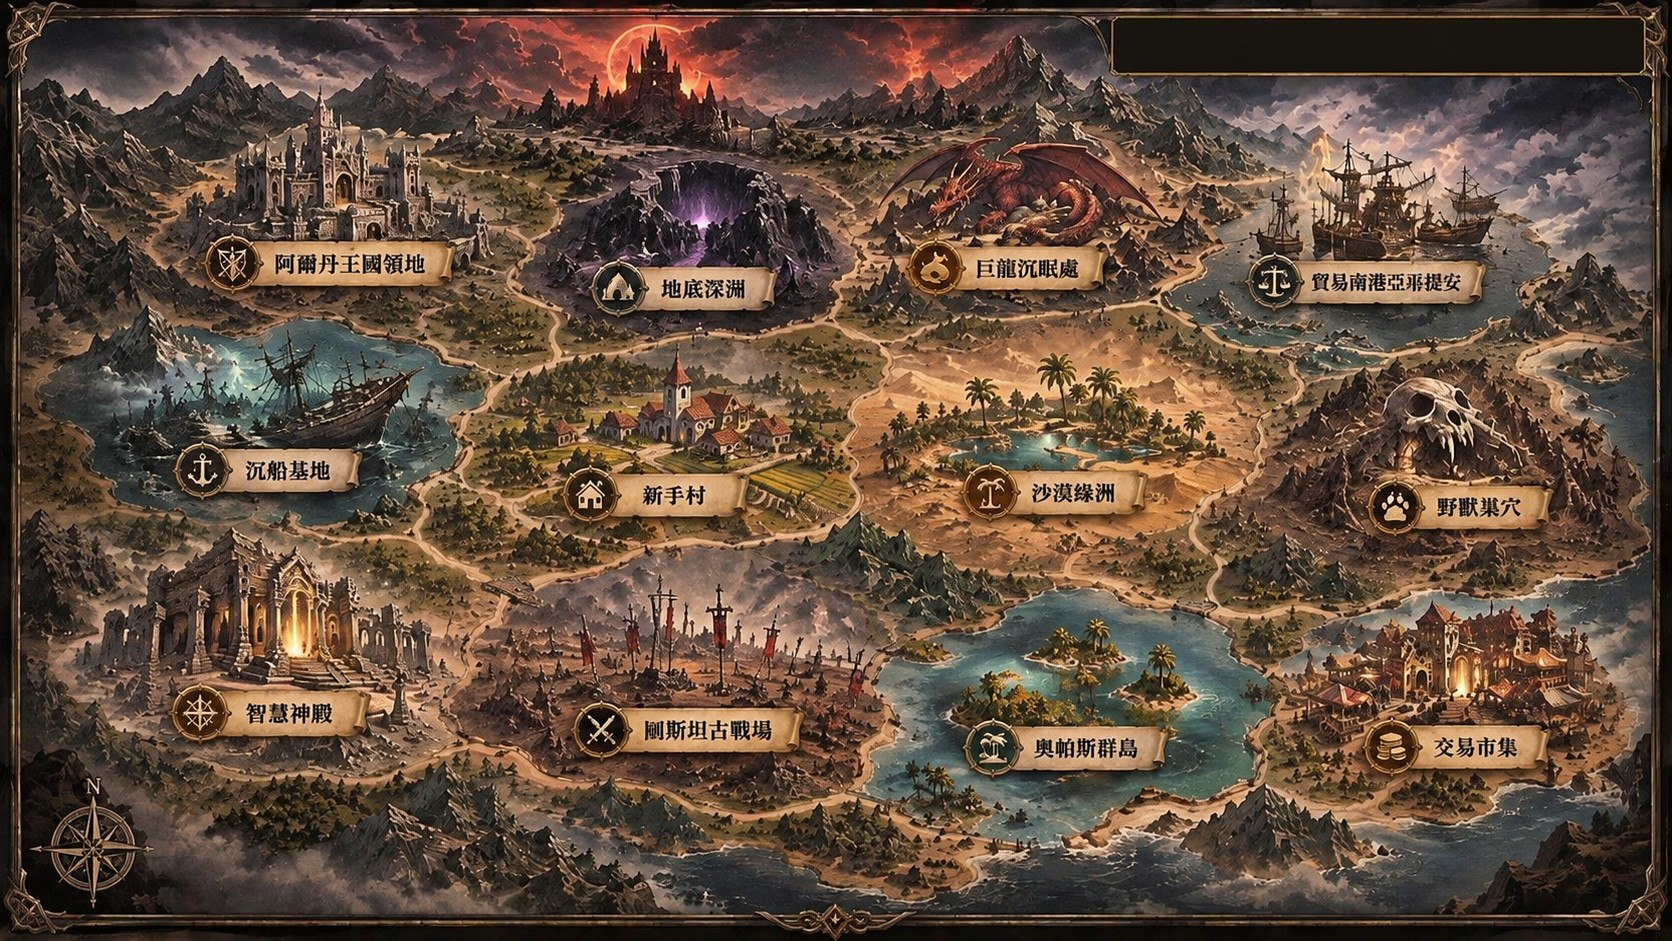
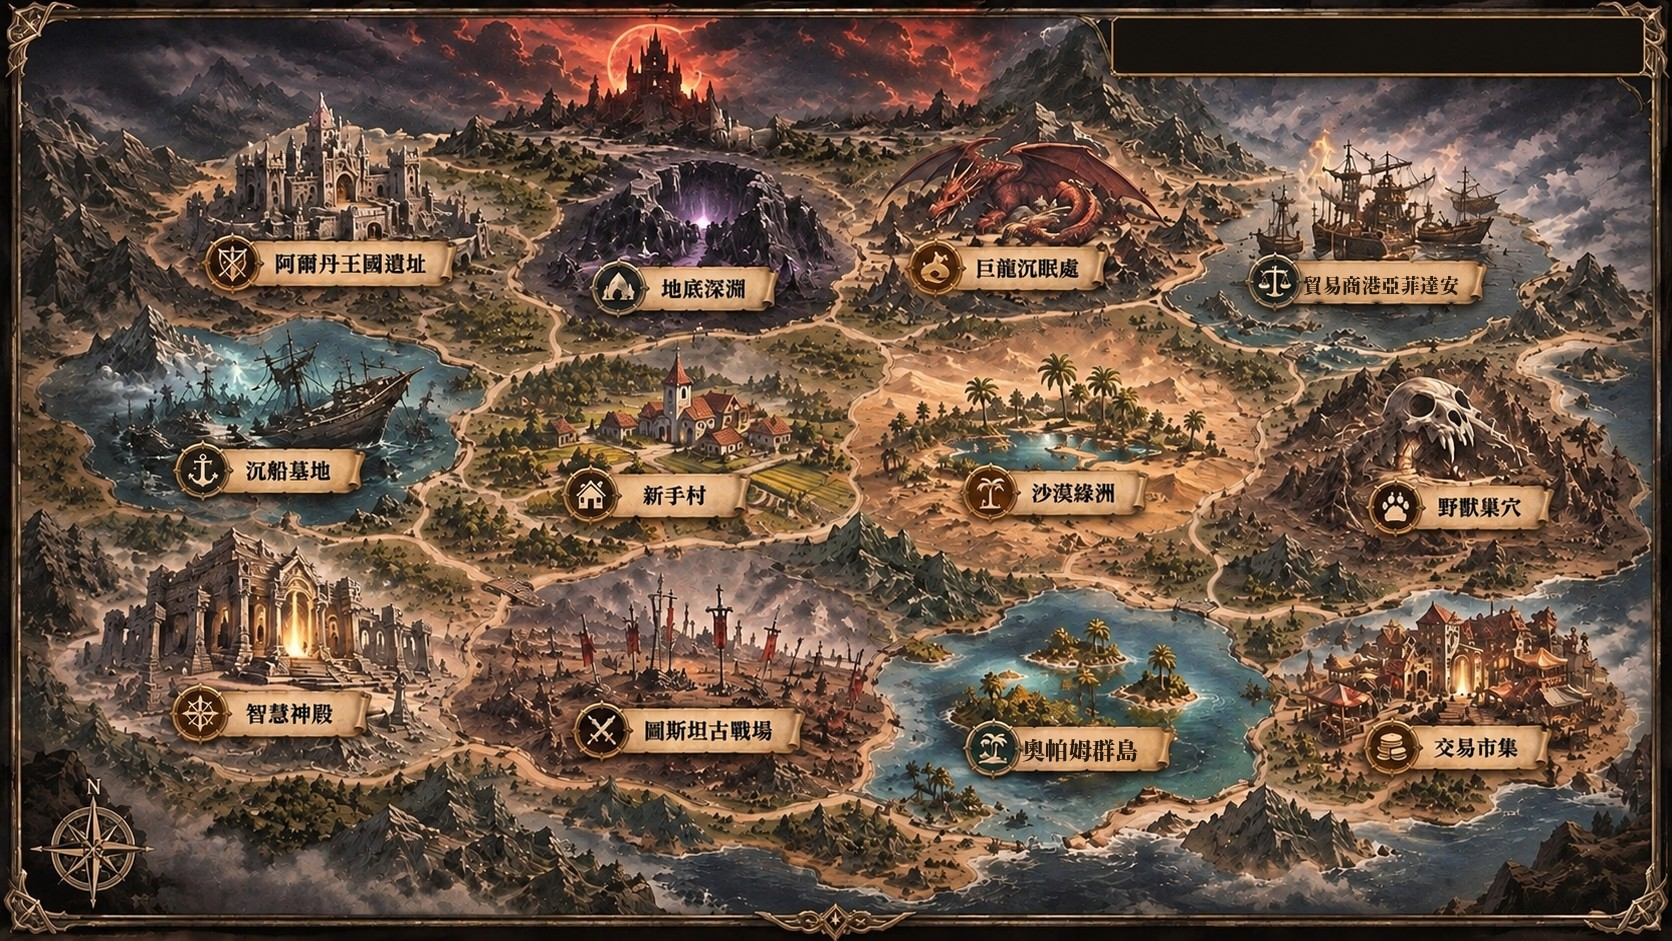
套用新版地圖並修正地名；交易市集改金色光暈，地標事件列字體隨地圖縮放
- 新版地圖：修正「貿易商港亞菲達安」「奧帕姆群島」名牌文字
- 交易市集移除「交易」小標，改為名牌金色呼吸光暈外框
- 地標事件列、狀態小標、牌庫數量字體依地圖大小縮放，避免跑版

Claude-Session: https://claude.ai/code/session_0143Bj37pmH8Dx3ZA3XRvR8J

Changed region(s): [[0.0, 0.0, 1.0, 1.0], [0.7464, 0.0, 0.7775, 0.0308]]

diff --git a/index.html b/index.html
@@ -1456,6 +1456,26 @@ button.card:hover{transform:none}
 .wlm.st-done::after{display:none}
 .wflag{bottom:calc(40% + 3px)!important}
 .wh-ev{right:1.6%;top:1.8%;width:31.9%;height:6%}
+
+/* v25：交易市集改用金色光暈外框（取代「交易」小標）；地標事件列字體隨地圖大小縮放 */
+.wflag.trade{display:none!important}
+.wlm.st-trade .wrow::after{inset:-2px;border-radius:.6cqw;box-shadow:0 0 0 .14cqw #e2b550,0 0 0 .3cqw rgba(40,26,10,.85),0 0 1.4cqw .2cqw rgba(226,181,80,.55);animation:wTrade 2.6s ease-in-out infinite}
+@keyframes wTrade{50%{box-shadow:0 0 0 .14cqw #f3d27a,0 0 0 .3cqw rgba(40,26,10,.85),0 0 2.2cqw .5cqw rgba(243,210,122,.75)}}
+.wlm.st-trade:hover .wrow::after,.wlm.st-trade.picked .wrow::after{animation:none;box-shadow:0 0 0 .2cqw var(--gold-hi),0 0 2cqw .4cqw rgba(243,210,122,.85)}
+@media(prefers-reduced-motion:reduce){.wlm.st-trade .wrow::after{animation:none}}
+@media(min-width:1240px){
+.worldmap>.whudbar .wh-ev,.worldmap>.wh-ev{font-size:clamp(9px,1.45cqw,19px);gap:.6cqw;padding:.2em .9cqw;height:auto!important;min-height:6%;line-height:1.25;overflow:hidden;white-space:nowrap}
+.wh-ev .go{line-height:1}
+.wh-ev .ex{width:1.35em!important;height:1.35em!important;min-width:0!important;min-height:0!important;flex:none}
+.wh-ev>span:nth-child(2){flex:none}
+.wh-ev .go{font-size:1.3em;flex:none}
+@container wmap (max-width:640px){.wh-ev>span:nth-child(2){display:none}}
+}
+@media(min-width:861px){
+.worldmap>.wpiles>*{font-size:clamp(8px,.95cqw,15px)}
+.worldmap>.wpiles svg{width:1.2em;height:1.2em;min-width:0;min-height:0}
+.wflag{font-size:clamp(8px,.95cqw,14px)}
+}
 </style>
 <link rel="preconnect" href="https://fonts.googleapis.com"><link rel="preconnect" href="https://fonts.gstatic.com" crossorigin><link href="https://fonts.googleapis.com/css2?family=Noto+Sans+TC:wght@400;500;700&family=Noto+Serif+TC:wght@600;700;900&display=swap" rel="stylesheet">
 </head>

diff --git a/src/template.html b/src/template.html
@@ -1456,6 +1456,26 @@ button.card:hover{transform:none}
 .wlm.st-done::after{display:none}
 .wflag{bottom:calc(40% + 3px)!important}
 .wh-ev{right:1.6%;top:1.8%;width:31.9%;height:6%}
+
+/* v25：交易市集改用金色光暈外框（取代「交易」小標）；地標事件列字體隨地圖大小縮放 */
+.wflag.trade{display:none!important}
+.wlm.st-trade .wrow::after{inset:-2px;border-radius:.6cqw;box-shadow:0 0 0 .14cqw #e2b550,0 0 0 .3cqw rgba(40,26,10,.85),0 0 1.4cqw .2cqw rgba(226,181,80,.55);animation:wTrade 2.6s ease-in-out infinite}
+@keyframes wTrade{50%{box-shadow:0 0 0 .14cqw #f3d27a,0 0 0 .3cqw rgba(40,26,10,.85),0 0 2.2cqw .5cqw rgba(243,210,122,.75)}}
+.wlm.st-trade:hover .wrow::after,.wlm.st-trade.picked .wrow::after{animation:none;box-shadow:0 0 0 .2cqw var(--gold-hi),0 0 2cqw .4cqw rgba(243,210,122,.85)}
+@media(prefers-reduced-motion:reduce){.wlm.st-trade .wrow::after{animation:none}}
+@media(min-width:1240px){
+.worldmap>.whudbar .wh-ev,.worldmap>.wh-ev{font-size:clamp(9px,1.45cqw,19px);gap:.6cqw;padding:.2em .9cqw;height:auto!important;min-height:6%;line-height:1.25;overflow:hidden;white-space:nowrap}
+.wh-ev .go{line-height:1}
+.wh-ev .ex{width:1.35em!important;height:1.35em!important;min-width:0!important;min-height:0!important;flex:none}
+.wh-ev>span:nth-child(2){flex:none}
+.wh-ev .go{font-size:1.3em;flex:none}
+@container wmap (max-width:640px){.wh-ev>span:nth-child(2){display:none}}
+}
+@media(min-width:861px){
+.worldmap>.wpiles>*{font-size:clamp(8px,.95cqw,15px)}
+.worldmap>.wpiles svg{width:1.2em;height:1.2em;min-width:0;min-height:0}
+.wflag{font-size:clamp(8px,.95cqw,14px)}
+}
 </style>
 <link rel="preconnect" href="https://fonts.googleapis.com"><link rel="preconnect" href="https://fonts.gstatic.com" crossorigin><link href="https://fonts.googleapis.com/css2?family=Noto+Sans+TC:wght@400;500;700&family=Noto+Serif+TC:wght@600;700;900&display=swap" rel="stylesheet">
 </head>
